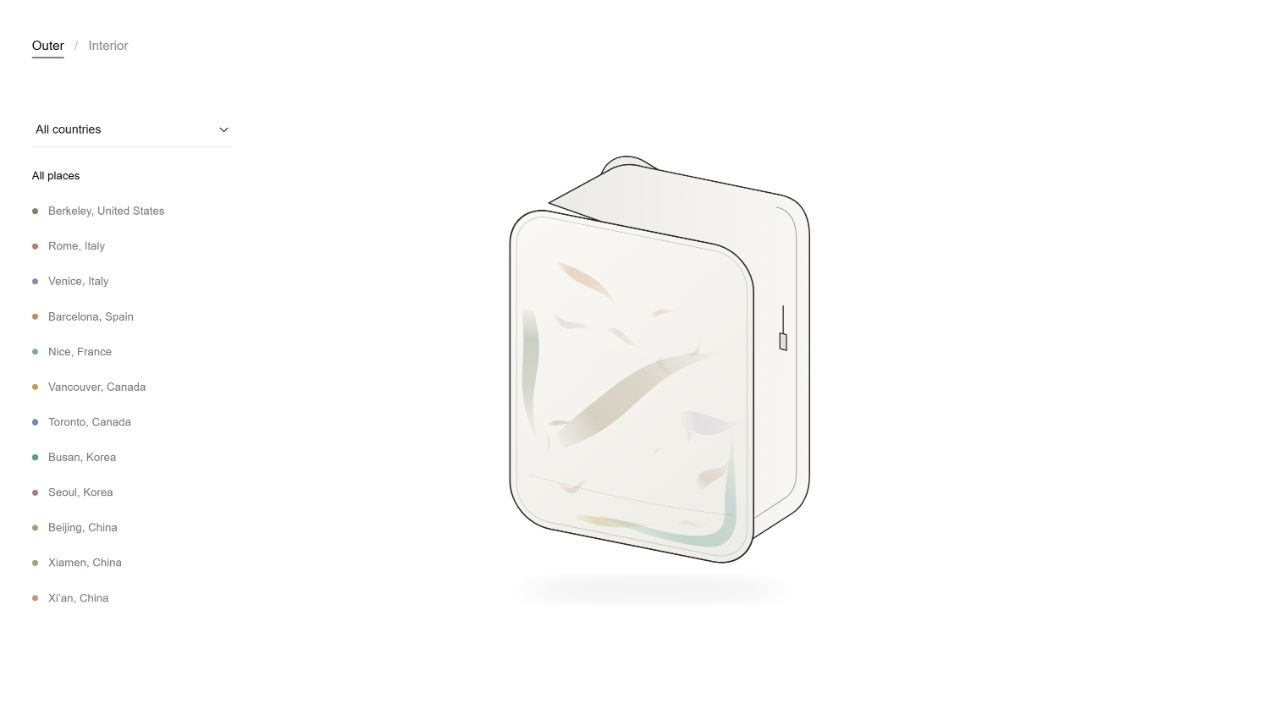
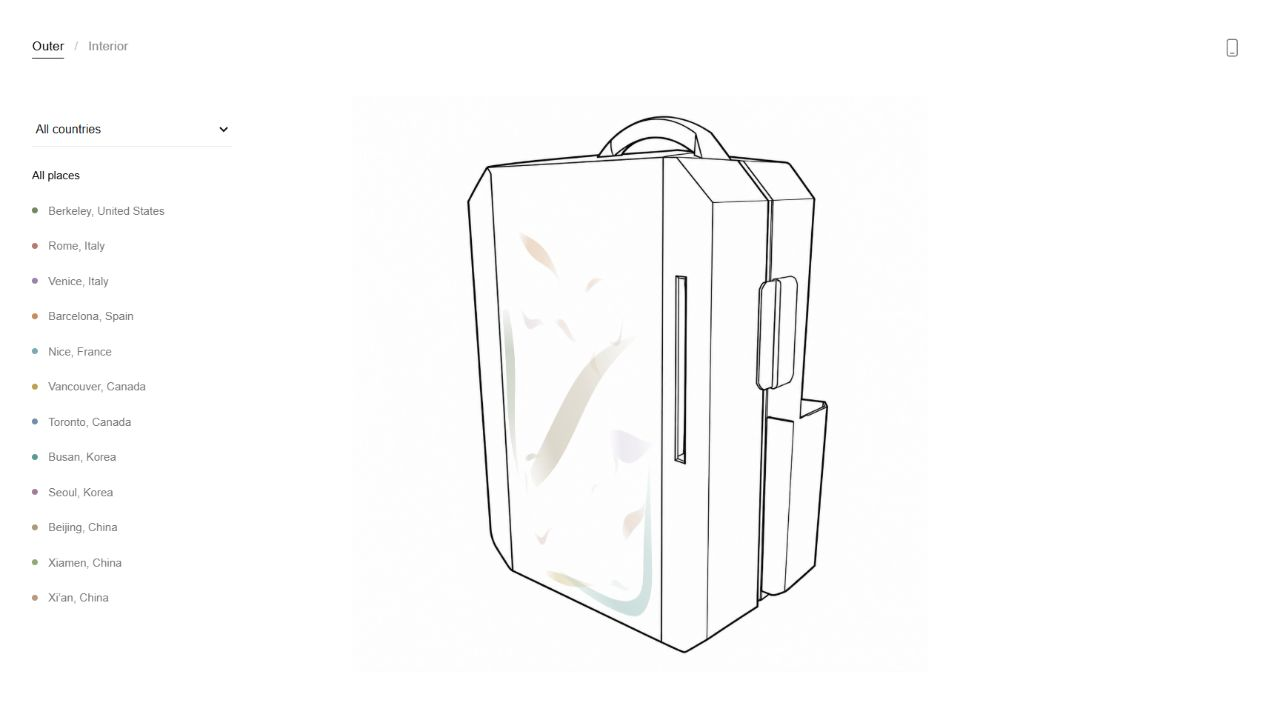
Integrate supplied backpack drawings and preserve projected travel wear

diff --git a/public/style.css b/public/style.css
@@ -34,9 +34,12 @@ h1 { position: fixed; top: 5.5rem; left: 50%; width: min(900px, calc(100vw - 4re
 #location-filter button:hover { color: #000; }
 #location-filter button[aria-pressed="true"]:not([data-city="all"]) { text-decoration: underline; text-underline-offset: .3rem; }
 .location-dot { display: inline-block; flex: 0 0 6px; width: 6px; height: 6px; border-radius: 50%; }
-#outer-container { width: min(70vw, 850px); }
+#outer-container { width: min(70vw, 660px); }
 #outer-pack { display: block; width: 100%; max-height: 80vh; overflow: visible; }
-.travel-mark { cursor: pointer; outline: none; }
+/* Map the original 280 x 370 panel to the four corners of the supplied drawing. */
+.panel-layer { pointer-events: none; }
+#panel-projection { width: 280px; height: 370px; transform-origin: 0 0; transform: matrix3d(.8726687876,-.1712400663,0,-.0006764134,.2877919881,2.8099524654,0,.0004426198,0,0,1,0,302,159,0,1); }
+.travel-mark { cursor: pointer; outline: none; pointer-events: auto; }
 .travel-mark > :not(.mark-hit) { pointer-events: none; }
 .travel-mark[data-active="true"] .wear-texture { filter: contrast(1.35); }
 .travel-mark:focus-visible .mark-hit { stroke: currentColor; stroke-width: .6; stroke-dasharray: 1 5; }
@@ -63,7 +66,7 @@ button:focus-visible, select:focus-visible { outline: 1px solid #777; outline-of
   #location-filter button { flex-shrink: 0; min-height: 36px; font-size: 11px; }
   body[data-view="outer"] main { inset: 168px 0 28px; padding: 0; }
   #outer-container { display: flex; justify-content: center; align-items: center; width: 100%; height: 100%; overflow: hidden; }
-  #outer-pack { width: 165%; flex: none; max-height: 100%; overflow: visible; }
+  #outer-pack { width: 100%; height: 100%; flex: none; max-height: 100%; overflow: visible; }
   #dev-tools { position: absolute; right: 18px; bottom: 15px; font-size: 10px; }
   #dev-tools button { min-height: 28px; }
 }

diff --git a/public/index.html b/public/index.html
@@ -31,15 +31,19 @@
     <aside id="history" aria-label="History log"></aside>
     <main>
       <h1 id="headline" aria-live="polite"></h1>
-      <div id="canvas-container" role="img" aria-label="Isometric backpack placeholder: empty."></div>
+      <div id="canvas-container" role="img" aria-label="Open backpack with an empty interior."></div>
       <div id="outer-container" hidden>
-        <svg id="outer-pack" viewBox="0 0 800 700" aria-label="Closed backpack with interactive travel marks">
-          <defs>
-            <clipPath id="front-panel-clip"><rect x="0" y="0" width="280" height="370" rx="39" /></clipPath>
-            <filter id="wear-soften" x="-60%" y="-100%" width="220%" height="300%"><feGaussianBlur stdDeviation="1.6" /></filter>
-          </defs>
-          <image href="assets/backpack-closed.svg" width="800" height="700" />
-          <g transform="matrix(1 .2 0 1 250 140)" clip-path="url(#front-panel-clip)" id="travel-marks"></g>
+        <svg id="outer-pack" viewBox="0 0 1254 1254" aria-label="Closed backpack with interactive travel marks">
+          <image href="assets/Photos/Exterior.png" width="1254" height="1254" />
+          <!-- Perspective-fit the entire approved composition, never individual marks. -->
+          <foreignObject width="1254" height="1254" class="panel-layer">
+            <div xmlns="http://www.w3.org/1999/xhtml" id="panel-projection">
+              <svg xmlns="http://www.w3.org/2000/svg" width="280" height="370" viewBox="0 0 280 370">
+                <defs><clipPath id="front-panel-clip"><rect width="280" height="370" rx="3" /></clipPath></defs>
+                <g clip-path="url(#front-panel-clip)" id="travel-marks"></g>
+              </svg>
+            </div>
+          </foreignObject>
         </svg>
       </div>
     </main>

diff --git a/public/sketch.js b/public/sketch.js
@@ -1,9 +1,9 @@
 /* global p5 */
 const STATES = {
-  EMPTY: { headline: 'Empty state detected. Maximum volume, ready for travel.', image: 'assets/backpack-empty.svg', alt: 'Isometric backpack placeholder: empty.' },
-  POCKETS: { headline: 'Dual sleeve detected, ready for daily use.', image: 'assets/backpack-pockets.svg', alt: 'Isometric backpack placeholder: dual sleeves installed.' },
-  SMALL: { headline: 'Small notebook detected. Where you heading?', image: 'assets/backpack-small-notebook.svg', alt: 'Isometric backpack placeholder: small notebook inside.' },
-  HEAVY: { headline: 'Multiple notebooks detected. Seems like you’re ready to go study.', image: 'assets/backpack-heavy-notebooks.svg', alt: 'Isometric backpack placeholder: multiple notebooks inside.' }
+  EMPTY: { headline: 'Empty state detected. Maximum volume, ready for travel.', image: 'assets/Photos/Interior_fully_empty.png', alt: 'Open backpack with an empty interior.' },
+  POCKETS: { headline: 'Dual sleeve detected, ready for daily use.', image: 'assets/Photos/Interior_pockets.png', alt: 'Open backpack with dual sleeves installed.' },
+  SMALL: { headline: 'Small notebook detected. Where you heading?', image: 'assets/Photos/Interior_front_notebook_only.png', alt: 'Open backpack with a small notebook in the front sleeve.' },
+  HEAVY: { headline: 'Multiple notebooks detected. Seems like you’re ready to go study.', image: 'assets/Photos/Interior_Both Notebooks.png', alt: 'Open backpack with a small front notebook and a large spiral notebook.' }
 };
 
 const REMOVALS = {

diff --git a/docs/ARTWORK.md b/docs/ARTWORK.md
@@ -6,9 +6,13 @@
 
 The current arrangement is approved, including the continuous L-shaped lower-right scuff and removal of the larger warm-toned lower-left mark. The reference is [approved-front-panel-layout.json](../design/approved-front-panel-layout.json); [design notes](../design/README.md) explain its preservation rules.
 
-All 18 marks are mapped to a **280 × 370** front-panel coordinate space. The placeholder uses an **800 × 700** viewBox. The overlay is placed with `matrix(1 .2 0 1 250 140)` and clipped to a rounded rectangle with a radius of 39.
+All 18 marks remain in the approved **280 × 370** front-panel coordinate space. The supplied `public/assets/Photos/Exterior.png` uses a **1254 × 1254** viewBox. A single perspective transform on `#panel-projection` aligns the whole composition to the front face; individual marks, colors, stories, seeds, and overlaps are unchanged.
 
-When the final drawing arrives:
+The panel corners in drawing pixels are **(302, 159), (674, 137), (670, 1181), (351, 1030)**, clockwise from the top left. The clip has a radius of 3 to suit the new drawing's angular seams. The nested SVG lives in an HTML wrapper inside `foreignObject` so Chromium applies the perspective divide correctly. Filters and pointer/keyboard interaction remain live.
+
+The saved design snapshot retains the original placeholder mapping as historical reference. The active mapping lives in `public/style.css` and is verified by `npm test`.
+
+For future drawing replacements:
 
 1. Replace the closed-backpack image in `public/assets/`, or update the SVG image reference in `public/index.html` for a PNG/JPEG.
 2. Align the complete mark overlay to the new front panel. Update the overall transform and clip as needed.
@@ -27,11 +31,14 @@ The brush seed depends on location and mark order. Preserve those arrays' order 
 
 | File | Configuration |
 | --- | --- |
-| `public/assets/backpack-empty.svg` | Empty |
-| `public/assets/backpack-pockets.svg` | Dual sleeves |
-| `public/assets/backpack-small-notebook.svg` | Small notebook |
-| `public/assets/backpack-heavy-notebooks.svg` | Multiple notebooks |
+| `public/assets/Photos/Interior_fully_empty.png` | Empty |
+| `public/assets/Photos/Interior_pockets.png` | Dual sleeves |
+| `public/assets/Photos/Interior_front_notebook_only.png` | Small notebook in the front sleeve |
+| `public/assets/Photos/Interior_Both Notebooks.png` | Both notebooks |
+| `public/assets/Photos/Interior_spiral_notebook_only.png` | Retained alternate; not used in the four-state sequence |
 
-Replace the placeholder files with matching SVGs, or change the image paths in `public/sketch.js` for another format. Keep the camera angle, scale, and margins consistent across states to avoid a visual jump during the demo.
+The six supplied PNGs are preserved unmodified with their original filenames. The front notebook is treated as the small notebook; the larger spiral notebook is the second item added. The sensor cannot distinguish two different single-notebook configurations, so the spiral-only alternate does not introduce an unsupported fifth state. Sequential removal from both notebooks returns to the front-notebook drawing.
 
-The approved interface uses a white background, minimal typography, a centered backpack, and a left-side history or filter list. The final illustrations should fit that composition without adding labels inside the image.
+Change the image paths in `public/sketch.js` for future replacements and update the asset assertions in `scripts/check.mjs`. Keep the camera angle, scale, and margins consistent across states to avoid a visual jump. Legacy placeholder SVGs remain available but are no longer referenced by the live interface.
+
+The interface retains its white background, minimal typography, centered backpack, and history or location filters. The desktop and phone-preview layouts both use the supplied drawings.

diff --git a/README.md b/README.md
@@ -5,7 +5,7 @@ Memento explores two kinds of memory: the things we carry inside a bag, and the 
 
 ![Memento exterior demo with location filters and the approved front-panel marks](docs/images/outer-demo.png)
 
-*Approved exterior composition. Backpack illustrations are placeholders pending the final drawings.*
+*The supplied backpack drawing with the approved travel-wear composition, perspective-aligned to its front panel.*
 
 ## Two ways to read the backpack
 
@@ -72,7 +72,7 @@ Sequential removals show **“Large notebook removed.”**, **“Small notebook 
 
 The front-panel arrangement is saved in [design/approved-front-panel-layout.json](design/approved-front-panel-layout.json). It includes positions, colors, scale, opacity, stories, and the continuous L-shaped lower-right scuff.
 
-When the final drawing arrives, align the existing overlay to the new front panel. Preserve the approved composition and its location mapping.
+The supplied drawings in `public/assets/Photos/` are now used in both views. The existing overlay is perspective-aligned to the new front panel; all approved mark data and location mappings are preserved. The spiral-only interior drawing is kept as an alternate outside the four-state sequence.
 
 [Image replacement and layout notes →](docs/ARTWORK.md)
 
@@ -87,7 +87,7 @@ public/
   outer.js                 Interactive exterior marks and filters
   mobile.js                Live phone frame and responsive resizing
   travel-data.js           Authored locations, colors, and memories
-  assets/                  Replaceable backpack illustrations
+  assets/Photos/           Supplied exterior and interior PNG drawings
 design/                    Approved front-panel baseline
 docs/                      Demo, hardware, and artwork guides
 scripts/                   Verification and production build
@@ -110,4 +110,4 @@ For Vercel, import **al3xxli/memento-pack**, leave **Root Directory** at `./`, a
 
 ## Prototype status
 
-The interface, authored travel memories, keyboard rehearsal, and serial integration are implemented. Final backpack drawings are pending. Calibrate and rehearse with the actual sensor, wiring, and physical model before each presentation.
+The interface, supplied backpack drawings, authored travel memories, keyboard rehearsal, and serial integration are implemented. Calibrate and rehearse with the actual sensor, wiring, and physical model before each presentation.

diff --git a/design/README.md b/design/README.md
@@ -7,3 +7,5 @@ The user approved the layout with continuous L-shaped wear around the bottom-rig
 When replacing `public/assets/backpack-closed.svg`, align the complete overlay to the front panel in the new drawing. Update the image reference, overall panel mapping, and clipping geometry as needed. Do not independently reposition, resize, recolor, redistribute, or regenerate the approved marks. Preserve the country/city filters and hover stories. If the drawing's geometry would require a substantial composition change, show the alignment issue before changing individual marks.
 
 The live layout remains in `public/travel-data.js` and `public/outer.js`. This snapshot is the approved reference, not a second runtime data source.
+
+The supplied drawings are now integrated. The snapshot's placeholder transform remains historical; the current whole-panel perspective transform is in `public/style.css`. See `docs/ARTWORK.md` for its four anchor corners. No individual mark data or brush geometry was changed.
